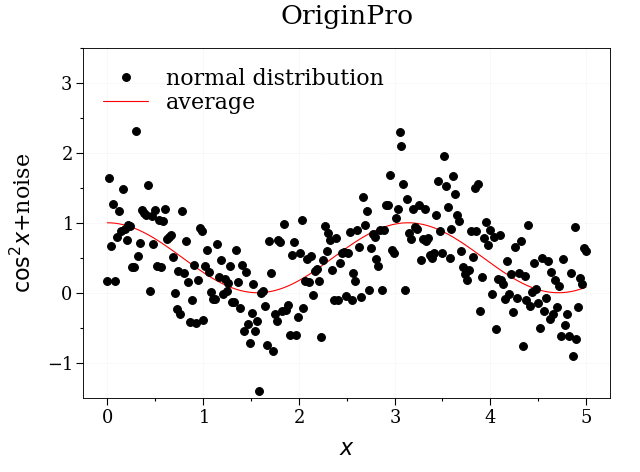
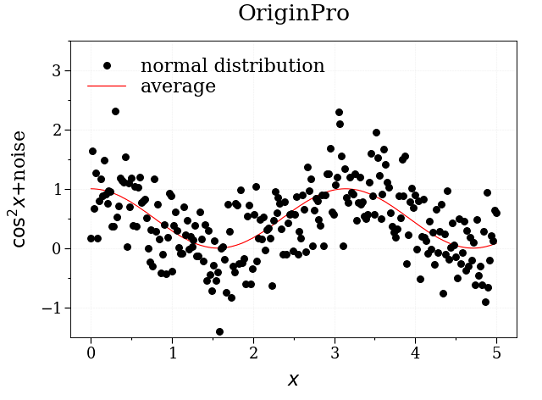
adjust figsize, update readme

diff --git a/README.md b/README.md
@@ -169,13 +169,4 @@ for more details
 
 - 0.1.9: added talk and OriginPro style 
 
-- 0.1.8 : fixed deprecation error messages
-
 - 0.1.7 : default fonts to Times in article
-
-- 0.1.6 : improve Readme
-
-- 0.1.5 : changed those buff_style functions in fix_style 
-
-*Erwan Pannier - EM2C Laboratory, CentraleSupélec / CNRS UPR 288*
-
